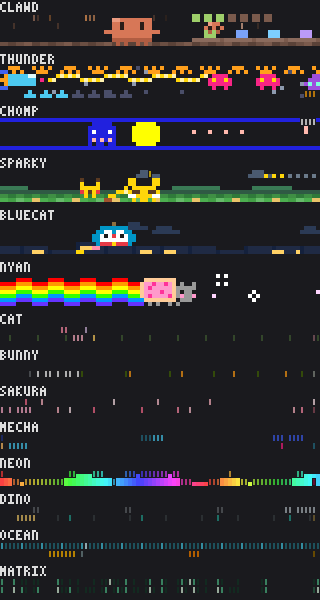
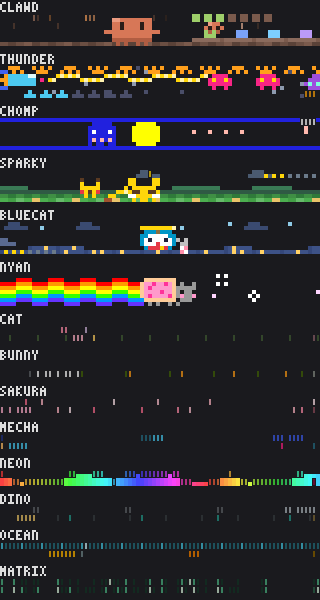
showtime: bluecat theme — reads well, all layers move, no jumps; copter climbs with done/total, gadgets bounce on the roofs per agent, wrench/pencil/lamp by tool, stall + sink on testFail, hop + city lights on testPass, door with light on commit; think/tool differ by glyph vs pocket item

Changed region(s): [[0.0, 0.36, 1.0, 0.45]]

diff --git a/showtime/hooks/themes/bluecat.ts b/showtime/hooks/themes/bluecat.ts
@@ -1,47 +1,265 @@
 // Theme: bluecat. Its scene, its words and its pet.
+//
+// The scene: a blue robot cat hangs from a bamboo copter over a city at night, in the middle of the
+// band. The copter's blades spin every frame (a wide and a narrow frame, a highlight sweeping along
+// them), the bell on his collar swings every three frames, he blinks every thirty. Behind him two
+// skies drift at two speeds: a far one (clouds, stars and a moon, slow) along the top and a near one
+// (brighter clouds, faster) at face level; under him the rooftops scroll past with lit windows. The
+// copter climbs with the tasks: with nothing done he hovers at the roofs, half done he is a row up,
+// all done he is at the top, one pixel row a frame; `total` marks sit on the street at the left,
+// `done` of them lit, the newest blinking, all waving when the last lands. Each subagent is a gadget
+// that tumbled out of his pocket, bouncing on the rooftops at his right (a squash every eight frames,
+// colors tumbling), the newest rolling in from the right edge. While a tool runs he holds a pocket
+// item beside his face: a wrench for bash, a pencil for edit, a lamp for search, a spark for the rest.
+// A failed test stalls the copter: the blades stop and go grey, he sinks two pixels over six frames
+// and recovers over six, a drop of sweat falling. A passing test: he hops twice, the bell rings white
+// and every window in the city lights. A commit: a pink door pops out beside him, a column a frame,
+// with light flickering inside and spilling out, for sixteen frames. Asking: a `?` beside his face;
+// thinking: a trail of dots; saying: a note.
+//
+// Motion rules (tests/scenes.test.ts): every frame differs somewhere, and no run of cells may start
+// more than one column from a run start in the frame before (same row or a neighbour). The rooftops
+// fill pixel row 7 all the way across, so the bottom cell row is always one run and anything drawn
+// there (gadgets, task marks) is free. The cat never leaves pixel rows 2–3 (he is 6 tall with two
+// rows of air, and his face rows are 9 wide), so cell row 1 always starts within a column of his
+// left column: that is the anchor for the rows beside it. A cloud parting from
+// him in row 0 (behind the blades) or row 2 (behind his face) leaves his run start a row away from
+// where the anchor was. Nothing else is ever drawn in row 1 except things fused to his right edge
+// (glyph, item, door), so his anchor never moves. The far layer moves as one field (clouds, stars
+// and the moon at one speed), so nothing in it parts from anything else; the near layer is clouds
+// alone. Props grow out from his right edge a pixel a frame and shrink back the same way; the
+// blades' narrow frame keeps its start within a column of the wide one and its right tip in place,
+// and the head row under it has clear corners, so the flicker shows in every altitude (that is what
+// makes every frame differ); the climb, the stall's sink
+// and the hop move him a pixel row a frame, which keeps his column. The brief's climb of five rows
+// (y = 6 − round(5·done/total)) is scaled to the two rows of air the canvas gives a 6-tall cat.
 import { canvas, cells, draw, frame, mod, noise, plot, put } from '../cells'
-import type { Grid } from '../cells'
-import { SCENE_ROWS, clouds } from '../draw'
+import type { Canvas, Grid } from '../cells'
+import { SCENE_ROWS } from '../draw'
 import type { PetArt } from '../pets'
 import type { Signals, Theme } from '../themes'
 
-const ROBOCAT = [
-  ['..PPPPPPP..', '.....p.....', '..BBBBBBB..', '.BBWWBWWBB.', 'BBWKWRWKWBB', 'BBWWWWWWWBB', '.BRRRYRRRB.'],
-  ['....PPP....', '.....p.....', '..BBBBBBB..', '.BBWWBWWBB.', 'BBWKWRWKWBB', 'BBWWWWWWWBB', '.BRRRYRRRB.'],
-]
-const GADGETS = ['#ff8fab', '#ffd60a', '#80ffdb', '#c77dff', '#f4a261']
+const CAT_W = 9
+/** The copter's blades: a wide frame and a narrow one alternating every frame. The right tip stays
+ * put (so a glyph beside it stays fused), the left one flickers a column (within the rule). */
+const BLADES = ['PPPPPPPPP', '.PPPPPPPP']
+/** The head, 9×5 under the blades: top with the copter's stem, cheeks, eyes, nose, collar. The top
+ * row's corners are clear so the blades' flicker shows through the cell they share when he is low;
+ * the three face rows are 9 wide, so his cell rows always start within a column of his left. */
+const HEAD = '.BBBpBBB.'
+const CHEEKS = 'BBWWWWWBB'
+const EYES = 'BWKWWWKWB'
+const EYES_SHUT = 'BWWWWWWWB'
+const EYES_SAD = 'BWSWWWSWB'
+const NOSE = 'BWWWRWWWB'
+/** The collar: the bell's column swings 4 → 5 → 4 → 3 (every three frames; every frame when excited). */
+const COLLAR = ['.', 'B', 'R', 'R', 'R', 'R', 'R', 'B', '.']
+const BELL_SWING = [4, 5, 4, 3]
+const BLUE = '#0096c7'
+const BLUE_DARK = '#0077b6'
+const WHITE = '#ffffff'
+const RED = '#e63946'
+const YELLOW = '#ffd60a'
+const PALE = '#fff3b0'
+const GREY = '#8d99ae'
+const PINK = '#ff8fab'
+const DROP = '#48cae4'
+const CAT_COLORS = { B: BLUE, b: BLUE_DARK, p: '#8d6e3f', W: WHITE, K: '#22223b', S: DROP, R: RED, Y: YELLOW }
+const BLINK_EVERY = 30
+/** The cat's top pixel row: 0 at the top of the band, 2 with his collar on the roofs. */
+const TOP_MAX = 2
+/** Reaction lengths, in frames. */
+const FAIL_FRAMES = 12
+const PASS_FRAMES = 16
+const COMMIT_FRAMES = 16
+const DONE_FRAMES = 16
+const TURN_FRAMES = 6
+/** The stall's sink, a pixel row per frame of the fall and the recovery. */
+const SINK = [0, 0, 1, 1, 2, 2, 2, 2, 1, 1, 0, 0]
+/** The far sky: clouds, stars and a moon, one field drifting slowly along the top two pixel rows. */
+const FAR_SPEED = 0.12
+const FAR_CLOUD = '#3a4a70'
+const STAR = '#8ecae6'
+const MOON = '#fff3b0'
+/** The near sky: brighter clouds at face level, faster. */
+const NEAR_SPEED = 0.3
+const NEAR_CLOUD = '#5a6a90'
+const NEAR_Y = 4
+const LUMP = ['.CCC..', 'CCCCCC']
+const LUMP_W = 6
+/** The rooftops: a building every seven columns, one or two pixel rows tall, windows lit at random. */
+const ROOF_SPEED = 0.35
+const ROOF_PITCH = 7
+const FACE = '#3d5287'
+const SEAM = '#34477a'
+const WINDOW = '#ffd166'
+const MARK_LIT = YELLOW
+const MARK_DIM = '#6b7a8a'
+/** A subagent's gadget: two pixels wide on the roofs, two colors tumbling, squashing every eighth frame. */
+const GADGET_COLORS: [string, string][] = [[PINK, WHITE], ['#80ffdb', YELLOW], ['#c77dff', WHITE], ['#f4a261', YELLOW]]
+const GADGET_PITCH = 3
+const MAX_AGENTS = 4
+/** Pocket items by tool kind, two frames each (a wobble every four frames), held beside his face.
+ * Their first column is always inked, so they fuse to his right edge. */
+const WRENCH = [['M.M', '.MM'], ['M.M', 'MM.']]
+const PENCIL = [['.YYT', 'EYY.'], ['EYYT', '....']]
+const LAMP = [['.L.', 'GLG'], ['LLL', 'GLG']]
+const ITEMS: Record<string, string[][]> = { bash: WRENCH, edit: PENCIL, search: LAMP }
+const ITEM_COLORS = { M: '#c0c0c0', Y: YELLOW, T: '#c9a26b', E: PINK, L: PALE, G: GREY }
+/** The anywhere door: 3×6 on the roofs beside him, pink with light inside. */
+const DOOR = ['PPP', 'PLP', 'PLP', 'PLP', 'PLP', 'PPP']
+const DOOR_W = 3
+const DOOR_Y = 2
+
+/** Where the copter should hover for `done` of `total`: the roofs with nothing done, the top with all. */
+function topFor(done: number, total: number): number {
+  if (total <= 0 || done <= 0) return TOP_MAX
+  return TOP_MAX - Math.round(TOP_MAX * Math.min(done, total) / total)
+}
+
+/** The copter's top pixel row: climbing from where the task before left him, a row a frame. */
+function altitude(s: Signals): number {
+  const target = topFor(s.done, s.total)
+  if (s.done <= 0 || s.doneAge >= TOP_MAX) return target
+  const from = topFor(s.done - 1, s.total)
+  return from + Math.sign(target - from) * Math.min(s.doneAge, Math.abs(target - from))
+}
+
+/** Lumps of cloud at pixel row `y`, `count` of them spaced around a loop a little wider than the band, drifting left at `speed`. */
+function lumps(cv: Canvas, t: number, count: number, speed: number, y: number, color: string, seed: number): void {
+  const span = cv.w + LUMP_W + 2
+  const pitch = span / count
+  for (let i = 0; i < count; i++) {
+    const base = i * pitch + noise(i + seed) * Math.max(0, pitch - LUMP_W - 2)
+    draw(cv, mod(Math.floor(base) - Math.floor(t * speed), span) - LUMP_W, y, LUMP, { C: color })
+  }
+}
+
+/** The far sky: clouds, stars and the moon drifting as one field along pixel rows 0–1. */
+function farSky(cv: Canvas, t: number): void {
+  const w = cv.w
+  const off = Math.floor(t * FAR_SPEED)
+  const span = w + LUMP_W + 2
+  for (let i = 0; i < Math.max(3, Math.floor(w / 10)); i++) {
+    const sx = mod(Math.floor(noise(i + 20) * span) - off, span) - LUMP_W
+    const twinkle = mod(t + i * 7, 24) < 3
+    plot(cv, sx, Math.floor(noise(i + 21) * 2), twinkle ? WHITE : STAR)
+  }
+  const mx = mod(Math.floor(noise(5) * span) - off, span) - LUMP_W
+  draw(cv, mx, 0, ['MM', 'MM'], { M: MOON })
+  lumps(cv, t, Math.max(2, Math.floor(w / 24)), FAR_SPEED, 0, FAR_CLOUD, 9)
+}
+
+/** The rooftops: pixel row 7 all the way, row 6 on the taller buildings, seams and windows; every window lit on `bright`. */
+function roofs(cv: Canvas, t: number, bright: boolean): void {
+  const off = Math.floor(t * ROOF_SPEED)
+  for (let c = 0; c < cv.w; c++) {
+    const u = c + off
+    const b = Math.floor(u / ROOF_PITCH)
+    const col = mod(u, ROOF_PITCH)
+    const tall = noise(b) < 0.5
+    const window = col === 2 || col === 4
+    const lit = bright || noise(b * 5 + col) < 0.45
+    plot(cv, c, 7, col === 0 ? SEAM : window && lit ? WINDOW : FACE)
+    if (tall) plot(cv, c, 6, col === 0 ? SEAM : window && (bright || noise(b * 3 + col) < 0.45) ? WINDOW : FACE)
+  }
+}
+
+/** The task marks along the street at the left, left of him: `total` of them, `done` lit; the newest blinks, all wave when the last lands. */
+function marks(cv: Canvas, x: number, s: Signals): void {
+  const n = Math.max(0, Math.min(s.total, Math.floor((x - 1) / 2)))
+  const allDone = s.total > 0 && s.done >= s.total
+  for (let i = 0; i < n; i++) {
+    let color = i < s.done ? MARK_LIT : MARK_DIM
+    if (allDone && s.doneAge < DONE_FRAMES && mod(s.doneAge - i, 6) < 2) color = WHITE
+    else if (!allDone && i === s.done - 1 && s.doneAge < DONE_FRAMES && mod(s.doneAge, 2) === 0) color = WHITE
+    plot(cv, 1 + 2 * i, 7, color)
+  }
+}
+
+/** Subagents: a gadget each bouncing on the roofs at his right, three columns apart; the newest rolls in from the right edge. */
+function gadgets(cv: Canvas, t: number, x: number, s: Signals): void {
+  const n = Math.max(0, Math.min(s.agents, MAX_AGENTS, Math.floor((cv.w - 12 - x) / GADGET_PITCH) + 1))
+  for (let i = 0; i < n; i++) {
+    let gx = x + CAT_W + 1 + i * GADGET_PITCH
+    if (i === s.agents - 1) gx = Math.max(gx, cv.w - 2 - s.agentsAge)
+    const [a, b] = GADGET_COLORS[i]!
+    const flip = mod(t >> 1, 2) === 0
+    const tall = mod(t + 2 * i, 8) < 5
+    plot(cv, gx, 7, flip ? a : b)
+    plot(cv, gx + 1, 7, flip ? b : a)
+    if (tall) {
+      plot(cv, gx, 6, flip ? b : a)
+      plot(cv, gx + 1, 6, flip ? a : b)
+    }
+  }
+}
+
+/** The door of a commit: grows out from his right edge a column a frame, light flickering inside and spilling out, then shrinks back. */
+function door(cv: Canvas, x: number, f: number): void {
+  const width = Math.max(0, Math.min(DOOR_W, f + 1, COMMIT_FRAMES - f))
+  const light = mod(f, 2) === 0 ? PALE : YELLOW
+  for (let c = 0; c < width; c++) {
+    for (let r = 0; r < DOOR.length; r++) plot(cv, x + CAT_W + c, DOOR_Y + r, DOOR[r]![c] === 'P' ? PINK : light)
+  }
+  if (width === DOOR_W && f >= 3 && f < COMMIT_FRAMES - 3 && mod(f, 2) === 0) {
+    plot(cv, x + CAT_W + DOOR_W, DOOR_Y + 1, PALE)
+    plot(cv, x + CAT_W + DOOR_W, DOOR_Y + 2, PALE)
+  }
+}
 
 export function bluecatScene(t: number, w: number, s: Signals): Grid {
   const act = s.act
   const cv = canvas(w, SCENE_ROWS)
-  clouds(cv, t, Math.max(2, Math.floor(w / 20)), 0.2, '#2b3a55', 3, 9)
-  // Rooftops far below, scrolling past.
-  const off = Math.floor(t * 0.4)
-  for (let x = 0; x < w; x++) {
-    const b = Math.floor((x + off) / 7)
-    const h = 1 + Math.floor(noise(b) * 3)
-    for (let y = 8 - h; y < 8; y++) plot(cv, x, y, mod(x + off, 7) === 0 ? '#14213d' : '#1f2a44')
-    if (h > 1 && noise(b * 3 + y0(x + off)) < 0.25) plot(cv, x, 8 - h + 1, '#ffd166')
-  }
-  const x = Math.floor(w * 0.3) + Math.round(Math.sin(t * 0.08) * (w * 0.15))
-  const y = Math.round(Math.sin(t * 0.25)) + (act === 'ask' ? 1 : 0)
-  // Gadgets tumble out of the pocket while a tool runs.
-  if (act === 'tool') {
-    for (let i = 0; i < 5; i++) {
-      const age = mod(t + i * 4, 16)
-      plot(cv, x + 5 - age, y + 6 + Math.floor(age / 4), frame(GADGETS, i + Math.floor(t / 16)))
-      plot(cv, x + 4 - age, y + 6 + Math.floor(age / 4), frame(GADGETS, i + Math.floor(t / 16)))
-    }
-  }
-  draw(cv, x, y, frame(ROBOCAT, t), { P: '#d4a373', p: '#8d6e3f', B: '#0096c7', W: '#ffffff', K: '#1b1b1b', R: '#e63946', Y: '#ffd60a' })
-  const g = cells(cv)
-  if (act === 'ask' && mod(t, 8) < 6) put(g, x + 12, 0, '?', { c: '#ffd166', b: true })
-  return g
-}
+  const x = Math.floor((w - CAT_W) / 2)
+  const isCommit = s.news === 'commit' && s.newsAge < COMMIT_FRAMES
+  const isFail = s.news === 'testFail' && s.newsAge < FAIL_FRAMES
+  const isPass = s.news === 'testPass' && s.newsAge < PASS_FRAMES
+  const allDone = s.total > 0 && s.done >= s.total && s.doneAge < DONE_FRAMES
+  const excited = s.actAge < TURN_FRAMES || isPass || isCommit || allDone
 
-/** Which window row of a building lights up. */
-function y0(n: number): number {
-  return Math.floor(n / 3)
+  // The skies, the roofs, and what sits on the roofs.
+  farSky(cv, t)
+  lumps(cv, t, Math.max(1, Math.floor(w / 32)), NEAR_SPEED, NEAR_Y, NEAR_CLOUD, 3)
+  roofs(cv, t, isPass)
+  marks(cv, x, s)
+  gadgets(cv, t, x, s)
+
+  // The cat: his altitude from the tasks, the stall's sink, the hop of a passing test (every other four frames).
+  const base = altitude(s)
+  const hop = isPass && mod(s.newsAge, 8) >= 2 && mod(s.newsAge, 8) < 6 ? 1 : 0
+  const top = base + (isFail ? SINK[s.newsAge]! : 0) - hop
+  // Blades: alternating wide and narrow with a highlight sweeping along; stopped and grey in a stall.
+  if (isFail) draw(cv, x, top, [BLADES[0]!], { P: GREY })
+  else {
+    draw(cv, x, top, [frame(BLADES, t)], { P: YELLOW })
+    const hx = mod(t * 2, CAT_W)
+    if (frame(BLADES, t)[hx] === 'P') plot(cv, x + hx, top, excited ? WHITE : PALE)
+  }
+  const eyes = isFail ? EYES_SAD : mod(t, BLINK_EVERY) < 2 ? EYES_SHUT : EYES
+  const collar = [...COLLAR]
+  collar[frame(BELL_SWING, excited ? t : Math.floor(t / 3))] = 'Y'
+  draw(cv, x, top + 1, [HEAD, CHEEKS, eyes, NOSE, collar.join('')], { ...CAT_COLORS, Y: isPass || isCommit ? (mod(t, 2) === 0 ? WHITE : YELLOW) : YELLOW })
+
+  // Beside his face: the pocket item of the tool, the door of a commit, the sweat of a failed test.
+  const arts = act === 'tool' && s.tool ? ITEMS[s.tool] : undefined
+  const hasItem = !!arts && !isCommit && !isFail
+  if (hasItem) draw(cv, x + CAT_W, top + 3, frame(arts!, t >> 2), ITEM_COLORS)
+  if (isCommit) door(cv, x, s.newsAge)
+  if (isFail) plot(cv, x + CAT_W, base + 2 + (s.newsAge >> 1), DROP)
+
+  const g = cells(cv)
+  // The glyph beside his face, fused to his right edge: a `?` while asking, a spark while a tool
+  // without an item runs, dots while thinking, a note while saying; nothing beside an item, the door or a stall.
+  const gx = x + CAT_W
+  if (!hasItem && !isCommit && !isFail) {
+    if (act === 'ask') { if (mod(t, 8) < 6) put(g, gx, 1, '?', { c: WINDOW, b: true }) }
+    else if (act === 'tool') put(g, gx, 1, frame(['✦', '·', '✧', '·'], t >> 1), { c: YELLOW, b: true })
+    else if (act === 'think') put(g, gx, 1, frame(['·', '··', '···', '··'], t >> 2), { c: '#9ab0c8' })
+    else if (act === 'say') put(g, gx, 1, mod(t, 8) < 4 ? '♪' : '♫', { c: PALE, b: true })
+    else put(g, gx, 1, frame(['.', '..', '...'], t >> 2), { c: '#9ab0c8' })
+  }
+  return g
 }
 
 /** A blue robot cat: white face, red nose, a bell on its collar. */

diff --git a/showtime/tests/scenes.test.ts b/showtime/tests/scenes.test.ts
@@ -7,7 +7,7 @@ import type { Act, NewsKind, Signals } from '../hooks/themes'
 const ACTS: Act[] = ['think', 'tool', 'ask', 'say']
 const NEWS: NewsKind[] = ['testPass', 'testFail', 'commit']
 /** Themes that meet the motion rules already (each polish task adds its own). */
-const POLISHED = new Set<string>(['clawd', 'thunder', 'chomp', 'sparky'])
+const POLISHED = new Set<string>(['clawd', 'thunder', 'chomp', 'sparky', 'bluecat'])
 
 function sig(over: Partial<Signals>): Signals {
   return { ...IDLE_SIGNALS, ...over }
